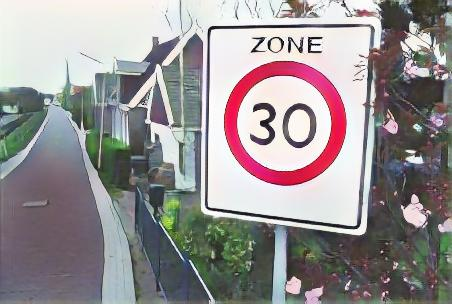
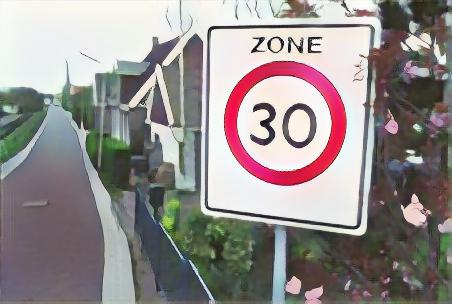
Add gamma preprocess

diff --git a/preprocess.py b/preprocess.py
@@ -5,10 +5,22 @@ import argparse
 from PIL import Image
 import cv2
 
+def adjust_gamma(input_array, gamma=1.0):
+    # build a lookup table mapping the BGR pixel values [0, 255] to
+    # their adjusted gamma values
+    img = cv2.cvtColor(input_array, cv2.COLOR_RGB2BGR)
+    invGamma = 1.0 / gamma
+    table = np.array([((i / 255.0) ** invGamma) * 255
+        for i in np.arange(0, 256)]).astype("uint8")
+    # apply gamma correction using the lookup table
+    output = cv2.LUT(img, table)
+    return cv2.cvtColor(output, cv2.COLOR_BGR2RGB)
+
 parser = argparse.ArgumentParser()
 parser.add_argument('--input_dir', default = 'test_img')
 parser.add_argument('--load_size', default = 450)
 parser.add_argument('--output_dir', default = 'preprocess_img')
+parser.add_argument('--gamma', default = 1.5) # inverse gamma value
 
 opt = parser.parse_args()
 
@@ -38,6 +50,7 @@ for files in os.listdir(opt.input_dir):
 	#output_image = anisotropic_diffusion(np.asarray(input_image), niter=10, kappa=50, gamma=0.1, voxelspacing=None, option=1)
 	output_image = np.array(input_image)
 	output_image = cv2.ximgproc.anisotropicDiffusion(src = np.array(input_image), dst = output_image, alpha = 0.1, K = 0.9, niters=2)
+	output_image = adjust_gamma(output_image, float(opt.gamma))
 
 	img = Image.fromarray(output_image, 'RGB')
 	img.save(os.path.join(opt.output_dir, files[:-4] + '.jpg'))
